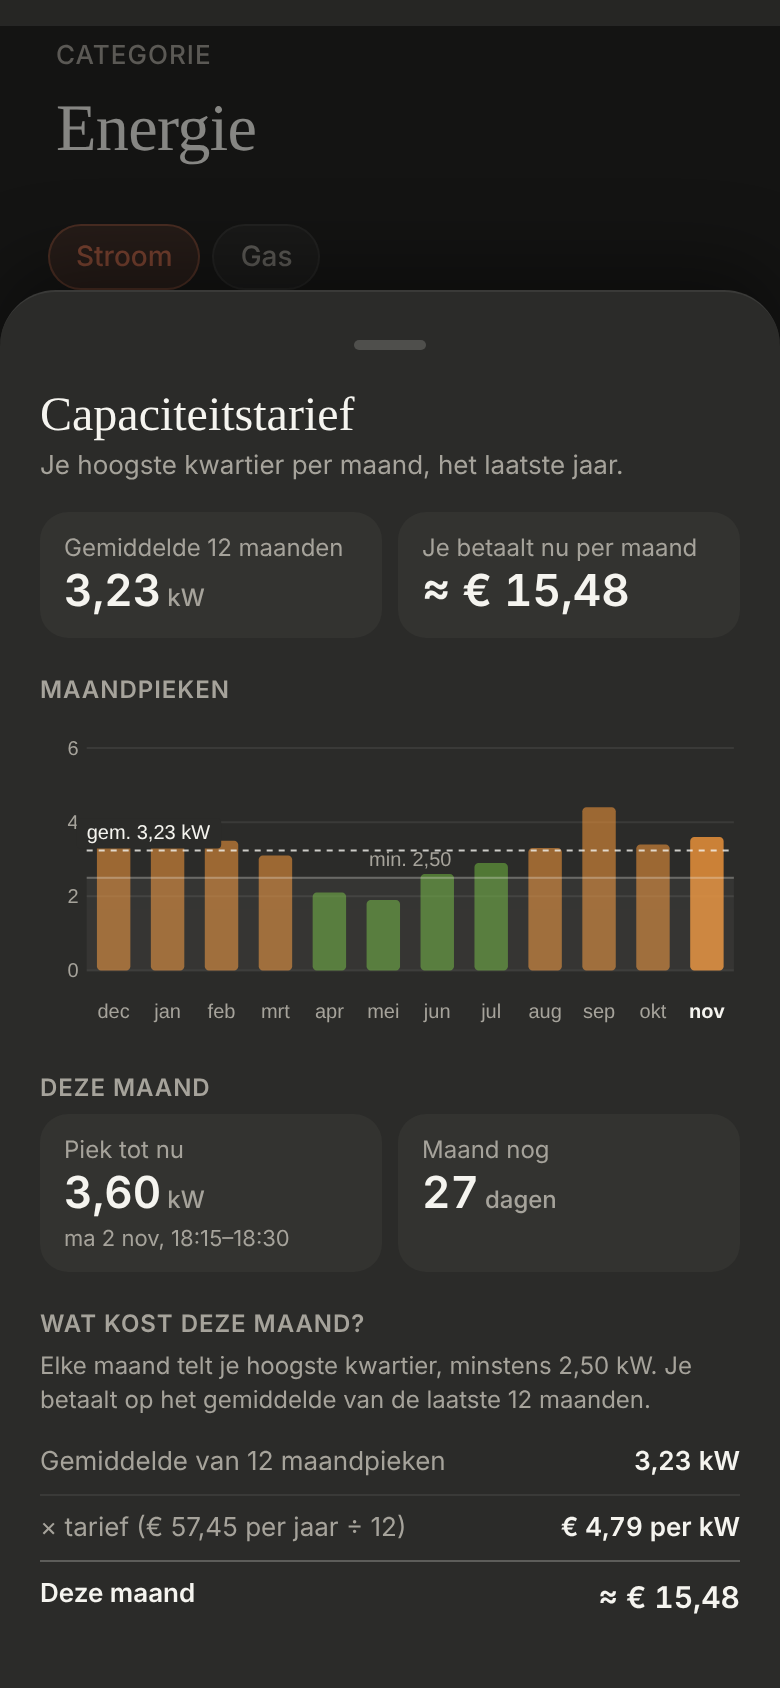
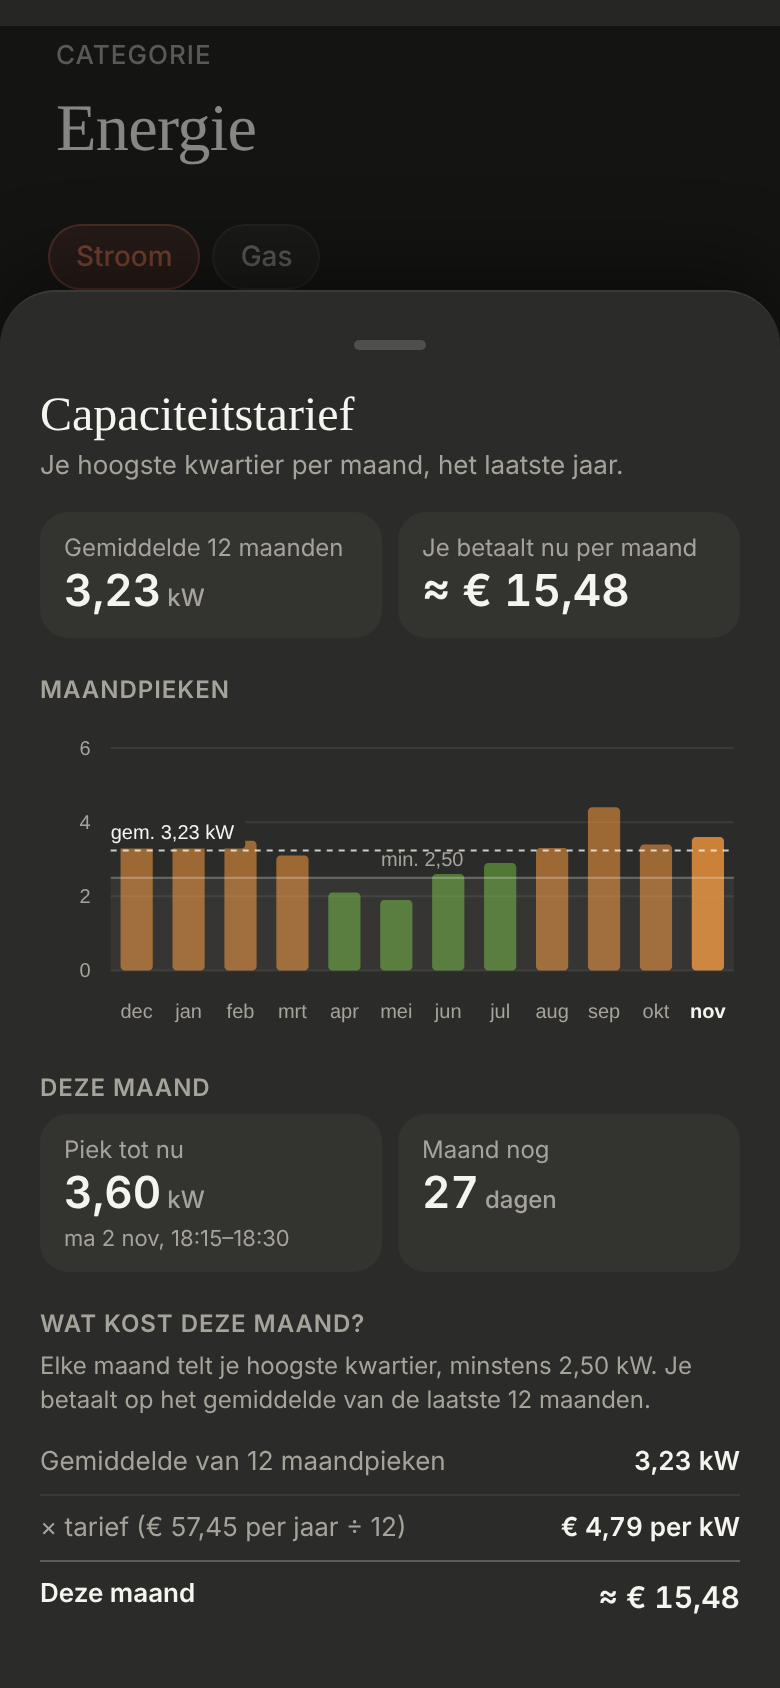
Energie: blue for the grid, 2 hours of 5-minute bars, room next to the axes
The owner didn't like the pink: electricity from the grid is blue now,
like in HA's Energy dashboard, everywhere it was pink (Thuis' power card
and Stroom tile, Energie's Nu, Afgenomen and Huis' net). The bars under
Nu show the last 2 hours (24). The sheets' charts get room between the
y-axis's numbers and the first bar.

Claude-Session: https://claude.ai/code/session_01KM6EwXvT22zbGn1J5Xot1E

diff --git a/src/config/energy.ts b/src/config/energy.ts
@@ -9,8 +9,8 @@ export const ENERGY_NOW = {
   fromGridColor: UTILITY_COLORS.stroom,
   /** "Terug naar het net": below zero. */
   backToGridColor: UTILITY_COLORS.feedingBack,
-  /** The bars below the number: the last hour. */
-  fiveMinuteBars: 12,
+  /** The bars below the number: the last 2 hours. */
+  fiveMinuteBars: 24,
 };
 
 /**
@@ -69,7 +69,7 @@ export const ENERGY_TODAY = {
    */
   alwaysOnPower: Entity.ELECTRICITY_ALWAYS_ON_POWER,
   alwaysOnToday: Entity.ELECTRICITY_ALWAYS_ON_TODAY,
-  /** "Huis vandaag" (docs/design/energie-huis): teal for its icon, apart from net (pink), zon (yellow) and gas (purple); the bars are net and zon. */
+  /** "Huis vandaag" (docs/design/energie-huis): teal for its icon, apart from net (blue), zon (yellow) and gas (purple); the bars are net and zon. */
   houseColor: '#3fb6a8',
   /** The chart shows this many days before today, plus today; the dashed line is their average. */
   previousDays: 13,

diff --git a/src/components/energy/EnergyNow.tsx b/src/components/energy/EnergyNow.tsx
@@ -13,8 +13,8 @@ interface Props {
 /**
  * "Nu" on the Energie page (docs/design/energie-nu, option B): what goes
  * through the P1 meter right now, as a number that counts to each new value,
- * in the colour of the bars (pink taking, green feeding back), with the last
- * hour as bars of 5 minutes below it (each the average). The top part of the
+ * in the colour of the bars (blue taking, green feeding back), with the last
+ * 2 hours as bars of 5 minutes below it (each the average). The top part of the
  * Energie page's card (EnergyPage), without a card of its own.
  */
 export function EnergyNow({ hass }: Props) {
@@ -41,7 +41,7 @@ function GridPower({ hass, currentWatts }: Props & { currentWatts: number }) {
         entityId={ENERGY_NOW.gridPower}
         numberOfBars={ENERGY_NOW.fiveMinuteBars}
         colorFor={colorFor}
-        firstBarLabel="1 uur geleden"
+        firstBarLabel="2 uur geleden"
       />
     </div>
   );

diff --git a/src/components/energy/InfoSheet.tsx b/src/components/energy/InfoSheet.tsx
@@ -97,7 +97,8 @@ export function InfoBarChart({ labels, values, color, nowIndex = values.length -
       borderColor: AXIS_LINE_COLOR,
       xaxis: { lines: { show: false } },
       yaxis: { lines: { show: true } },
-      padding: { top: -14, right: 0, bottom: 0, left: 0 },
+      // Room between the y-axis's numbers and the first bar (and its label).
+      padding: { top: -14, right: 0, bottom: 0, left: 12 },
     },
     xaxis: {
       categories: labels,
@@ -162,8 +163,6 @@ export function axisOptions(axis: RoundAxis): ApexOptions['yaxis'] {
     max: axis.max,
     tickAmount: axis.steps,
     labels: {
-      // A little away from the plot, so the average's label (on the left of the plot) doesn't cover its end.
-      offsetX: -6,
       style: { colors: MUTED_TEXT_COLOR, fontSize: '10px' },
       formatter: (value: number) => readableAmount(value, 0),
     },

diff --git a/src/dev/mockHass.ts b/src/dev/mockHass.ts
@@ -326,7 +326,8 @@ export function createMockHass(onChange: (hass: HomeAssistant) => void) {
     if (msg.type === 'recorder/statistics_during_period' && msg.period === '5minute') {
       const fiveMinutes = 5 * 60_000;
       const firstStart = Date.parse(String(msg.start_time));
-      const averages = [310, 280, 260, 180, 90, -40, -180, -320, -420, -610, -780, -850];
+      // The last 2 hours: taking in the morning, then the sun takes over.
+      const averages = [420, 380, 350, 400, 360, 330, 310, 280, 260, 220, 240, 200, 310, 280, 260, 180, 90, -40, -180, -320, -420, -610, -780, -850];
       return Object.fromEntries(
         (msg.statistic_ids as string[]).map((statisticId) => [
           statisticId,

diff --git a/src/components/energy/CapacitySheet.tsx b/src/components/energy/CapacitySheet.tsx
@@ -173,7 +173,8 @@ function MonthlyPeaksChart({
       borderColor: 'rgba(245, 244, 239, 0.08)',
       xaxis: { lines: { show: false } },
       yaxis: { lines: { show: true } },
-      padding: { top: -14, right: 0, bottom: 0, left: 0 },
+      // Room between the y-axis's numbers and the first bar (and its label).
+      padding: { top: -14, right: 0, bottom: 0, left: 12 },
     },
     xaxis: {
       categories: monthlyPeaks.map((monthlyPeak) => monthName(monthlyPeak.monthStart)),

diff --git a/src/config/statistics.ts b/src/config/statistics.ts
@@ -35,7 +35,8 @@ export interface StatisticTileConfig {
 
 /** The approved colours (docs/design/nutsvoorzieningen), validated together in this order. */
 export const UTILITY_COLORS = {
-  stroom: '#d55181',
+  // Blue, like the grid in HA's Energy dashboard (4 November; it was pink #d55181).
+  stroom: '#4c9be8',
   zon: '#c98500',
   gas: '#a37cf0',
   feedingBack: '#6bab3e',

diff --git a/docs/design/energie-huis/README.md b/docs/design/energie-huis/README.md
@@ -16,8 +16,8 @@ The approved mockup: [`mockup.png`](./mockup.png) ([`mockup.html`](./mockup.html
 
 - **The shared [day tile](../day-tile/README.md):** "Huis vandaag ›", house icon in **teal** `#3fb6a8` (chosen 4 November; it was a neutral light `#d8d2c4`), in kWh with two decimals. Above "Afgenomen vandaag" and "Zon vandaag", which stay as they are.
 - **The value:** taken from the grid + own solar, where own solar = Smappee's solar − the P1 meter's injected (never below 0, as the two meters measure apart).
-- **The split bar** (`SplitBar`, ApexCharts): own solar in yellow, the grid in pink, as wide as their shares. Under it "Zon 2,62 · 24%" and "Net 8,13". Not shown before anything was used today.
-- **The 14 days:** each day's bar stacked, own solar at the bottom (yellow), the grid on top (pink); today in the full colours, the days before darker. The dashed line is the average house total of the days before. From the daily statistics of the three sensors (taken, solar, injected), fetched again every 5 minutes; a day without solar statistics counts no own solar.
+- **The split bar** (`SplitBar`, ApexCharts): own solar in yellow, the grid in blue, as wide as their shares. Under it "Zon 2,62 · 24%" and "Net 8,13". Not shown before anything was used today.
+- **The 14 days:** each day's bar stacked, own solar at the bottom (yellow), the grid on top (blue); today in the full colours, the days before darker. The dashed line is the average house total of the days before. From the daily statistics of the three sensors (taken, solar, injected), fetched again every 5 minutes; a day without solar statistics counts no own solar.
 - **The Huis sheet** (`HouseSheet.tsx`, built 4 November without a design first): "Huis", "Vandaag 10,75 kWh, van de zon en van het net.", the figures **Zon** and **Net** with their share of the house, and the **Sluipverbruik** (`AlwaysOnSection`, Smappee's always-on), moved here from Afgenomen: it's what the house uses, from the grid or the sun.
 - Without Smappee or the P1 meter's injecting, there's no Huis tile.
 

diff --git a/docs/design/energie-nu/README.md b/docs/design/energie-nu/README.md
@@ -4,6 +4,8 @@ The "Nu" section at the top of the [Energie](../nav-categories/README.md) page: 
 
 > ✅ **Approved and built** (3 November): card B from [`without-chart.png`](./without-chart.png), with the 5-minute bars of [`graph-options.png`](./graph-options.png) (B2, but for the last hour). Don't change proportions or behaviour without asking first.
 >
+> **2 hours, 24 bars of 5 minutes** (4 November; it was the last hour, 12 bars), axis labels "2 uur geleden" and "nu".
+>
 > Code: `EnergyNow.tsx` in `src/components/energy/`, the bars in `FiveMinuteBars.tsx`, `fetchFiveMinuteAverages` in `src/lib/statistics.ts`, `src/config/energy.ts`, the hooks `useEasedNumber`, `usePeriodicFetch` and `usePrefersReducedMotion`, styles under "Energie: Nu" in `src/styles.css`.
 
 ![Built](./built.png)
@@ -17,8 +19,8 @@ Only the P1 meter: `sensor.p1_meter_power` (`ENERGY_NOW.gridPower`), positive wh
 ## The card (B)
 
 - *No section title any more:* since S2 ([energie-page](../energie-page/README.md)) this is part of one card for now.
-- **The label:** "Van het net" with a pink dot (`#d55181`), or "Terug naar het net" with a green dot (`#6bab3e`), following the sign.
-- **The big number** (40px, fixed-width digits), without a minus sign, **in the colour of the bars**: pink while taking, green while feeding back. It **counts** to each new value in 0.4 s and follows every state change (about every 3 s).
+- **The label:** "Van het net" with a blue dot (`#4c9be8`, pink `#d55181` until 4 November), or "Terug naar het net" with a green dot (`#6bab3e`), following the sign.
+- **The big number** (40px, fixed-width digits), without a minus sign, **in the colour of the bars**: blue while taking, green while feeding back. It **counts** to each new value in 0.4 s and follows every state change (about every 3 s).
 - *No "Live" badge any more* (removed on 4 November at the owner's request).
 
 ## The bars

diff --git a/docs/design/energie-sheets/README.md b/docs/design/energie-sheets/README.md
@@ -29,7 +29,7 @@ A tap anywhere on the day tile (`DayTile`'s `onOpen`). A small "›" right after
 
 No "Goed om te weten" sections and no explanatory paragraph under the sluipverbruik (removed at the owner's request, 4 November).
 
-- **Afgenomen** (`sensor.p1_meter_energy_consumption_daily`, pink): only the shared sections. Its **Sluipverbruik** moved to the [Huis sheet](../energie-huis/README.md) (4 November): it's what the house uses, not only what came from the grid. There it's Smappee's always-on (`sensor.garage_smappee_always_on_active_power`, the lowest power of the last 2 days, with what that is per year at €0,35 per kWh) and what it used today (`sensor.garage_smappee_always_on_today`, in kWh, with ≈ €). Before, it was the lowest hour of the P1 meter last night, which assumed everyone asleep and no sun.
+- **Afgenomen** (`sensor.p1_meter_energy_consumption_daily`, blue): only the shared sections. Its **Sluipverbruik** moved to the [Huis sheet](../energie-huis/README.md) (4 November): it's what the house uses, not only what came from the grid. There it's Smappee's always-on (`sensor.garage_smappee_always_on_active_power`, the lowest power of the last 2 days, with what that is per year at €0,35 per kWh) and what it used today (`sensor.garage_smappee_always_on_today`, in kWh, with ≈ €). Before, it was the lowest hour of the P1 meter last night, which assumed everyone asleep and no sun.
 - **Zon** (Smappee, yellow, no €): **Waar ging je zon heen vandaag:** used and injected (the P1 meter), each with its share, and what the solar used yourself saved at the price of taking.
 - **Gas** (purple): only the shared sections.
 

diff --git a/docs/design/energie-vandaag/README.md b/docs/design/energie-vandaag/README.md
@@ -16,7 +16,7 @@ The earlier options (A: three tiles, B: a list, C: a balance, D: four tiles with
 
 | Tile | Icon | Sensor | Price |
 |---|---|---|---|
-| **Afgenomen** (taken from the grid) | pylon, pink `#d55181` | `sensor.p1_meter_energy_consumption_daily` | what taking costs per kWh |
+| **Afgenomen** (taken from the grid) | pylon, blue `#4c9be8` (pink `#d55181` until 4 November) | `sensor.p1_meter_energy_consumption_daily` | what taking costs per kWh |
 | **Teruggeleverd** (fed back) | sun, green `#6bab3e` | `sensor.p1_meter_energy_production_daily` | what feeding back earns per kWh |
 
 - In kWh with two decimals, straight from the sensors' states (live). The colours are the ones of the Nu card.

diff --git a/docs/design/nutsvoorzieningen/README.md b/docs/design/nutsvoorzieningen/README.md
@@ -52,7 +52,7 @@ The dark steps from the dataviz reference palette, validated on surface `#30302e
 
 | Utility | Color |
 |---|---|
-| Stroom | `#d55181` (magenta) |
+| Stroom | `#4c9be8` (blue; magenta `#d55181` until 4 November) |
 | Zon | `#c98500` (yellow) |
 | Water | `#3987e5` (blue) |
 | Gas | `#a37cf0` (purple; was aqua green `#199e70`, changed with Energie's gas) |
